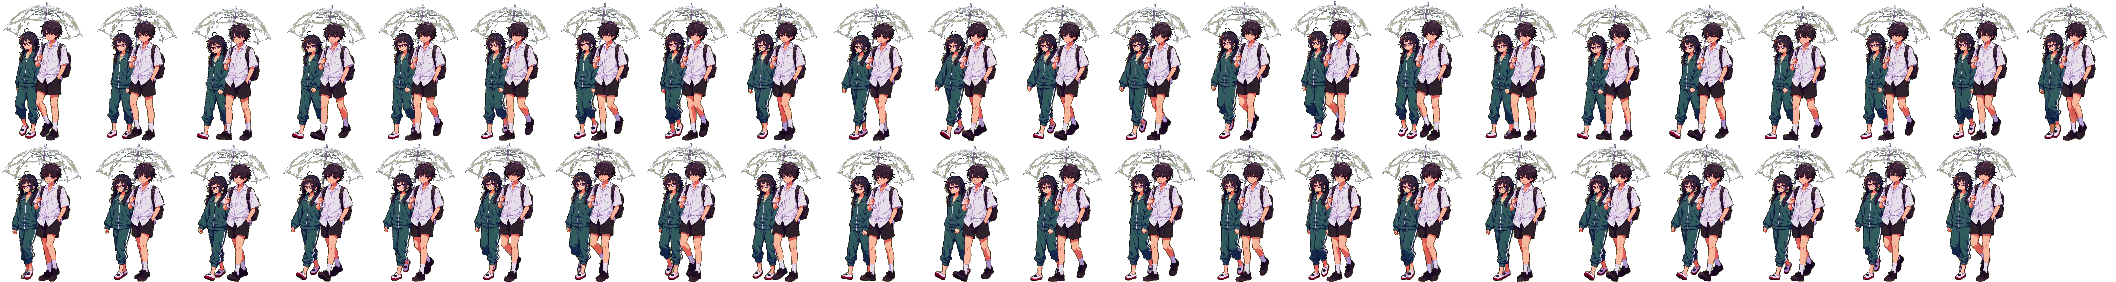
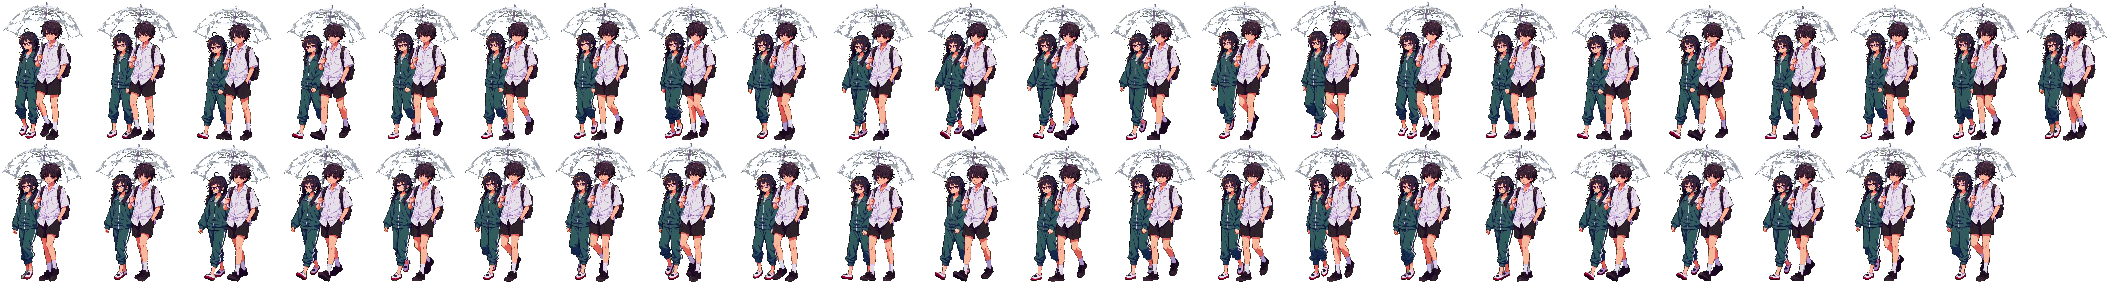
Crossing cutscene: no green fringe, they walk toward the camera, zoom in on the turn
- tools/defringe_sheet.py peels the olive ring left from the pale green
  backdrop around the couple and greys the umbrella edge that kept the cast
- the camera dollies back at half their pace, so they really come closer
  (bigger, drifting left) instead of walking on the spot; placed on screen
  with the shader's own camera so the feet stay on the ground
- the scene zooms in to 1.35x on them while it turns

Claude-Session: https://claude.ai/code/session_01CetL5zkYvFPaRRM6Eyxn95

diff --git a/tools/defringe_sheet.py b/tools/defringe_sheet.py
@@ -1,0 +1,52 @@
+"""Take the last of the green backdrop off a finished sheet (couple under the umbrella, crossing cutscene).
+
+finish_pair_walk.py caps the green on the outlines, so the pale green backdrop mixed into the edges
+stays as a ring of olive pixels (R ~ G, B lower) around both of them: a green-yellow frame on the
+dark street. punch_sheet.py makes it stronger.
+
+  1. olive pixels touching transparency are backdrop, not character: peeled off (alpha 0), a few rings deep.
+  2. olive pixels left inside (the clear umbrella's edge and ribs, a few on the clothes) lose the
+     colour cast: a cool grey of the same brightness, like the game's own clear umbrella. Alpha stays.
+
+Usage:
+  python3 tools/defringe_sheet.py SHEET.png [OUT.png] --rings 4
+"""
+import argparse
+
+import numpy as np
+from PIL import Image
+from scipy import ndimage
+
+
+def main():
+    ap = argparse.ArgumentParser()
+    ap.add_argument("src")
+    ap.add_argument("out", nargs="?")
+    ap.add_argument("--rings", type=int, default=4, help="how many rings of olive outline to peel")
+    args = ap.parse_args()
+
+    img = np.asarray(Image.open(args.src).convert("RGBA")).astype(np.int32)
+    r, g, b, a = (img[..., i] for i in range(4))
+    olive = (np.abs(r - g) <= 12) & (g - b >= 12) & (r + g + b > 250) & (a > 0)
+
+    peeled = np.zeros_like(olive)
+    for _ in range(args.rings):
+        ring = olive & ~peeled & ndimage.binary_dilation(img[..., 3] == 0)
+        if not ring.any():
+            break
+        peeled |= ring
+        img[ring, 3] = 0
+
+    inside = olive & ~peeled
+    lum = img[..., :3].mean(-1)
+    tint = np.array([0.95, 0.98, 1.06])
+    img[inside, :3] = np.clip(lum[inside, None] * tint, 0, 255).astype(np.int32)
+    img[img[..., 3] == 0, :3] = 0
+
+    out = args.out or args.src
+    Image.fromarray(img.astype(np.uint8), "RGBA").save(out)
+    print(f"{peeled.sum()} outline pixels peeled, {inside.sum()} inside made grey -> {out}")
+
+
+if __name__ == "__main__":
+    main()

diff --git a/README.md b/README.md
@@ -216,14 +216,20 @@ python3 tools/import_char_video.py art_source/pair_umbrella_walk.mp4 pair_raw.pn
 python3 tools/finish_pair_walk.py pair_raw.png pair.png --frames 45 --bg 141,207,106
 python3 tools/punch_sheet.py --gamma 1.15 --saturation 1.15 pair.png
 # แล้วเรียง 2 แถว แถวละ 23 เฟรม -> assets/characters/pair_umbrella_walk.png
+python3 tools/defringe_sheet.py assets/characters/pair_umbrella_walk.png
 ```
 
 - วง 29→119 (90 เฟรมวิดีโอ = 3 รอบก้าว รอยต่อต่างกันน้อยกว่าเฟรมติดกัน) 45 เฟรม 12 เฟรม/วินาที, `--height 139` = ทั้งภาพรวมร่ม ให้พระเอกผม→เท้า ~118px เท่าท่าอื่น
 - พื้นหลังคลิปเป็นเขียวอ่อน ร่มใสเลยติดเขียวทึบ: `finish_pair_walk.py` ทำร่มเป็นพลาสติกใสใหม่ (ขาวโปร่งตามที่สว่างขึ้นจากพื้นหลัง) และขอบที่ติดเขียวเป็นเส้นขอบเข้ม
+- `defringe_sheet.py`: ขอบสีเขียวอมเหลือง (พื้นหลังที่ผสมอยู่ R≈G B ต่ำ) ที่ยังเหลือรอบตัวทั้งคู่เป็นกรอบบนถนนมืด
+  ลอกออก (โปร่งใส) ทีละชั้นจากขอบนอก 4 ชั้น ที่เหลือข้างใน (ขอบ/ซี่ร่มใส) เป็นเทาอมฟ้าความสว่างเดิม
 - `crossing_cutscene.gd`: ไฟเขียวแล้วขึ้นปุ่ม "ข้ามทางม้าลาย" กดแล้วตัดผ่านจอดำเป็นจอกว้างแบบหนัง ซ่อนตัวละครปกติ ใส่ภาพเดินคู่ บทเป็นซับไตเติลในแถบล่าง
 - หมุนฉาก (`shaders/scene_turn.gdshader`): มองฉากเป็นพื้นราบ (ทางเท้า ถนน ทางม้าลาย) + แผ่นตั้งที่ฐานกำแพง (ทุกอย่างข้างบน)
   ขอบฟ้าหาจากระยะแถบทางม้าลายที่วาดแบบเปอร์สเปกทีฟอยู่แล้ว (แถว 203) หมุนกล้องรอบแกนตั้งที่เท้าทั้งคู่ -26° ใน 4 วินาที
-  ทางม้าลายจึงเฉียงลงซ้ายตามทิศที่ทั้งคู่เดิน เสายังตั้งตรง แล้วทั้งคู่ (กับกล้องที่ตามหลัง) เดินไปตามทางม้าลาย 0.12 หน่วยความลึก/วินาที
+  ทางม้าลายจึงเฉียงลงซ้ายตามทิศที่ทั้งคู่เดิน เสายังตั้งตรง พร้อมซูมเข้าหาทั้งคู่ 1.35 เท่า (`zoom`/`focus` ใน shader)
+  ทั้งคู่เดินไปตามทางม้าลาย 0.12 หน่วยความลึก/วินาที กล้องถอยตามแค่ครึ่งเดียว (`CAMERA_FOLLOW`) ทั้งคู่จึงเดินเข้ามาใกล้จริง
+  (ใหญ่ขึ้น เยื้องไปทางซ้าย) ไม่ใช่เดินอยู่กับที่ ตำแหน่ง/ขนาดบนจอหาด้วยกล้องเดียวกับ shader (`_place()`) เท้าจึงติดพื้น
+  ภาพเดินคู่ที่ขยายใช้ `smooth_pixel` ให้คมเท่ากันทุกพิกเซล
   พื้นที่ใกล้กว่าภาพใช้ถนนซ้ำตามระยะแถบ กล้องเกมถอยออก (0.58) และเลื่อนซ้ายตามการหมุน ภาพต้นทางจึงครอบด้านที่มองเห็นตลอด
   ต้องมี `BackBufferCopy` ก่อน shader (ไม่งั้นได้จอที่ก๊อปไว้ตั้งแต่ชั้นเงาสะท้อน ก่อนวาดถนน พื้นดำ) และอ่านด้วย `textureLod`
 - ทดสอบช่วงนี้อย่างเดียว: เปิดเกมด้วย `#cross` ท้ายลิงก์ (ข้ามไปที่ทั้งคู่ยืนใต้ร่มตอนไฟเขียว)
